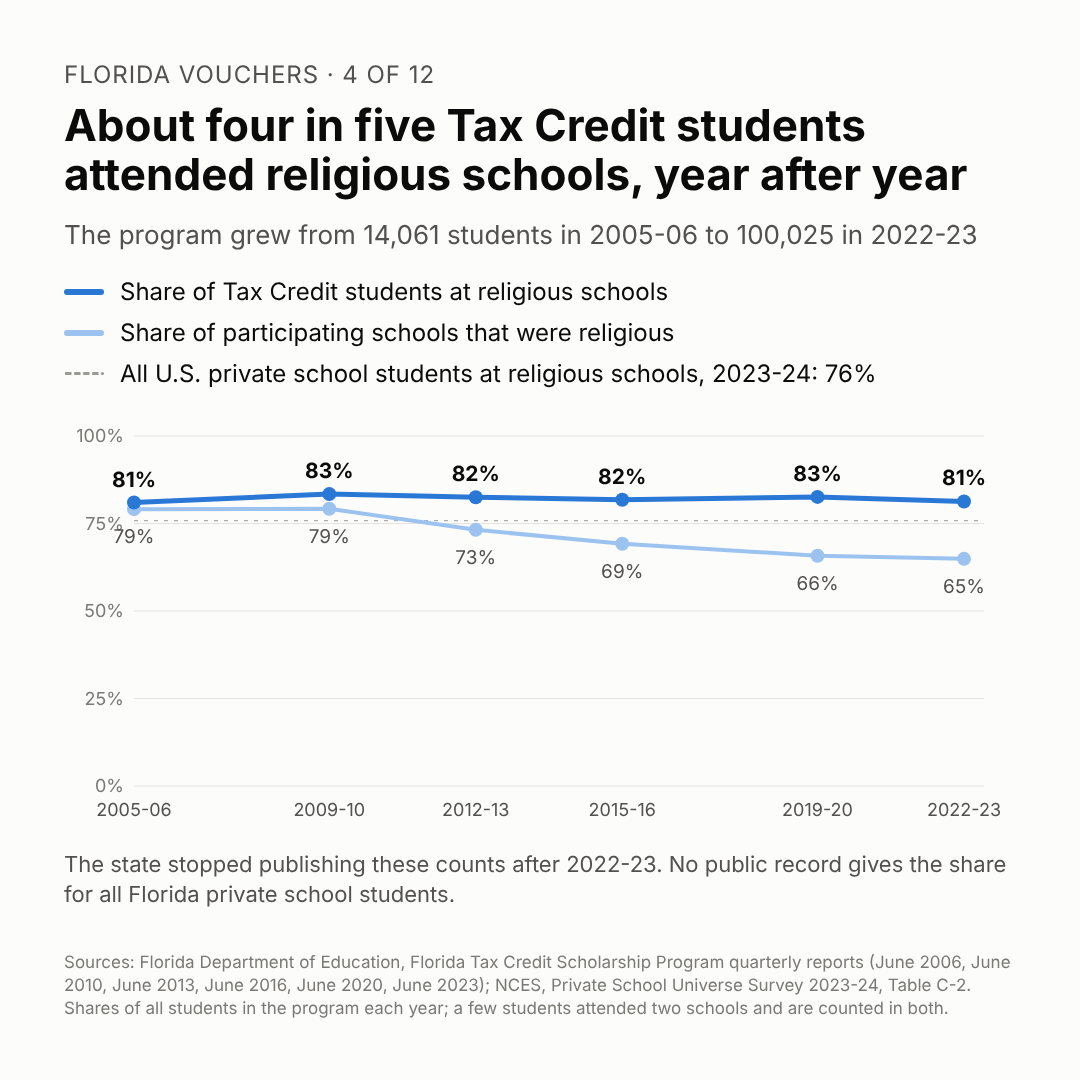
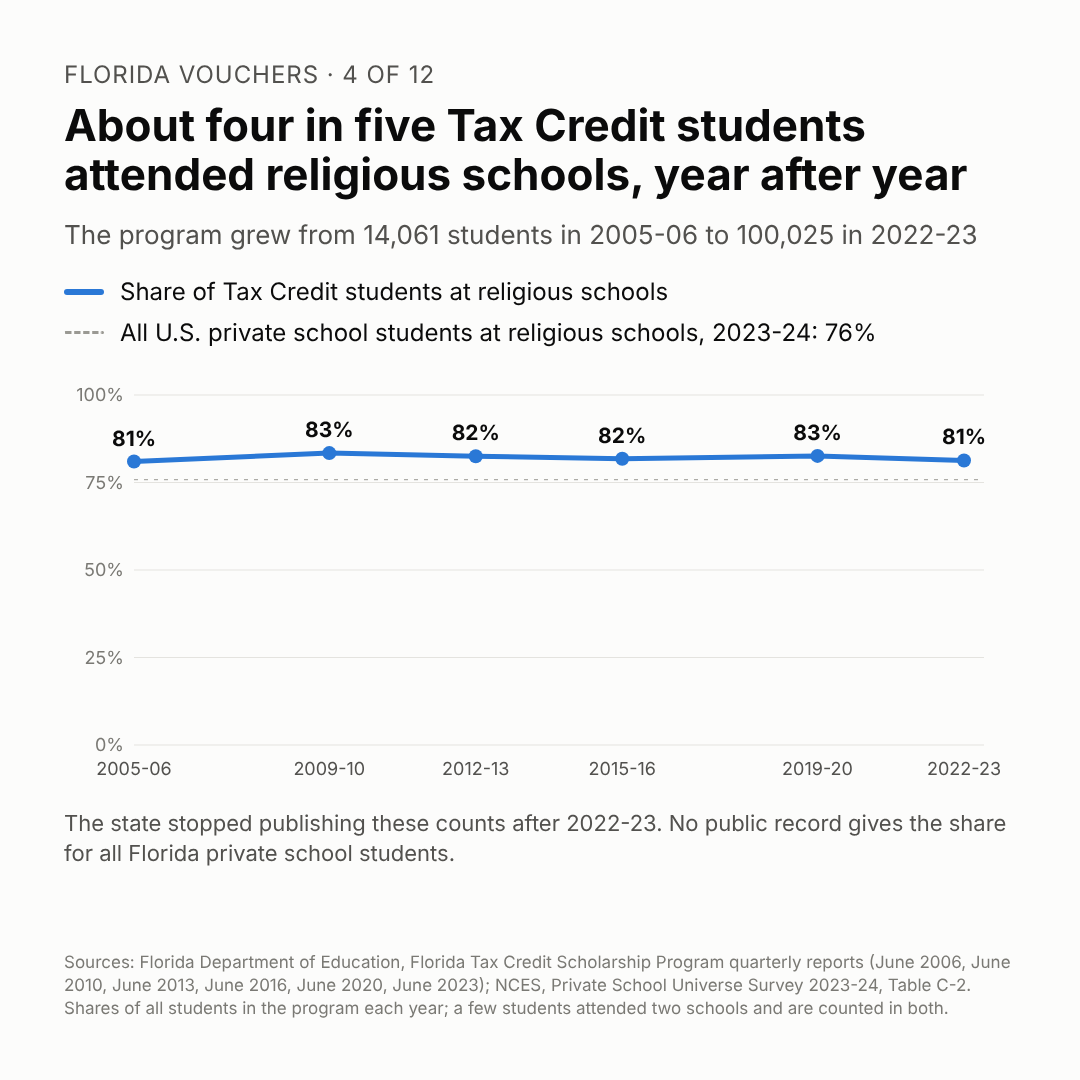
Post 4: cut the secular-schools paragraph; image shows the student share only
Claude-Session: https://claude.ai/code/session_01Tv8dvGSMcMCRhxNzj4GXHG

Changed region(s): [[0.0611, 0.275, 0.9167, 0.5806], [0.0611, 0.6417, 0.9472, 0.8556]]

diff --git a/series/florida-vouchers/04-religious-schools/post.md b/series/florida-vouchers/04-religious-schools/post.md
@@ -37,8 +37,6 @@ In 2020 and 2022, the U.S. Supreme Court ruled on clauses like Florida's. In 202
 
 Through all of this, the share of Tax Credit students at religious schools barely moved. It was 83 percent in 2009-10, 82 percent in 2015-16 and 81 percent in 2022-23, according to the Department of Education.
 
-The schools changed more than the students did. As more secular schools joined, the share of participating schools that were religious fell from 79 percent in 2005-06 to 65 percent in 2022-23. That year, secular schools made up 35 percent of the 2,083 participating schools but enrolled 19 percent of the Tax Credit students. Religious schools enrolled about 61 scholarship students each on average; secular schools, about 26.
-
 The department has not published these counts since 2022-23. Step Up For Students, the nonprofit that runs most of Florida's scholarships, says on its website that 82 percent of its students on the general scholarships attend a religious school. Catholic schools enroll the largest number, according to a 2022 Step Up analysis. Nationally, 76 percent of all private school students, with or without a voucher, attend religious schools, according to 2023-24 federal data. No public record gives that share for Florida, so it is not possible to say whether scholarship students are more likely than other private school students to attend a religious school.
 
 Supporters see parents choosing the schools they trust, most of them religious, and a U.S. Constitution that does not let the state exclude them. Critics see public money paying for religious education, which they say Florida's Constitution was written to prevent.
@@ -87,8 +85,6 @@ Sources for this post:
 | 2020: Montana's courts could not use the no-aid clause to shut religious schools out of a tax credit scholarship program | Espinoza (June 30, 2020, 5-4, Roberts, C.J.), syllabus: the Montana Supreme Court struck down the program under the no-aid provision; held "The application of the no-aid provision discriminated against religious schools and the families whose children attend or hope to attend them in violation of the Free Exercise Clause of the Federal Constitution" |
 | 2022: struck down Maine's rule keeping tuition aid from religious schools; Roberts and Sotomayor quotes | Carson v. Makin (June 21, 2022, 6-3), majority (Roberts, C.J.), slip op. p. 15: "A State need not subsidize private education. But once a State decides to do so, it cannot disqualify some private schools solely because they are religious." (The line first appeared in Espinoza.) Sotomayor, J., dissenting, p. 1: "This Court continues to dismantle the wall of separation between church and state that the Framers fought to build." Verbatim |
 | 83% (2009-10), 82% (2015-16), 81% (2022-23) | DOE quarterly reports: June 2010: 24,134 of 28,927 (83.4%); June 2016: 65,811 of 80,473 (81.8%); June 2023: 82,291 of 101,242 (81.3%). Student totals are duplicated counts (students at two schools counted in both) |
-| 2022-23: secular schools 35% of 2,083 participating schools, 19% of students | DOE June 2023, p. 5: Non-Religious 732 schools (35.1%), Religious 1,351 (64.9%), total 2,083; students Non-Religious 18,951 (18.7%), Religious 82,291 (81.3%) |
-| Share of religious schools fell from 79% (2005-06) to 65% (2022-23); about 61 vs 26 scholarship students per school | DOE June 2006: 708 of 895 (79.1%); June 2023: 1,351 of 2,083 (64.9%). Averages: 82,291 / 1,351 = 60.9; 18,951 / 732 = 25.9 (duplicated student counts) |
 | The department has not published these counts since 2022-23 | DOE FTC quarterly reports page lists reports through June 2023 only (checked 26 Oct 2026). DOE annual private school reports have no religious breakdown (2012-13 and 2024-25 checked) |
 | Step Up: 82 percent of its general-scholarship students at religious schools | Step Up research page (undated): "61 percent of private schools identified as religious, though 82 percent of all students attend a religious school." The page is about its income-based (now general) scholarships. Administrator's own figure; schools self-report |
 | Catholic schools enroll the largest number (2022) | Step Up, Nov. 16, 2022: "Catholics comprise the largest religious group with 34,912 students and 204 schools" |
@@ -107,6 +103,7 @@ Sources for this post:
 ## Notes: details kept out of the main text
 
 - **Full Tax Credit series (DOE quarterly reports).** Students at religious schools: 81.0% (2005-06), 83.4% (2009-10), 82.5% (2012-13), 81.8% (2015-16), 82.6% (2019-20), 81.3% (2022-23). Schools that were religious: 79.1%, 79.2%, 73.2%, 69.2%, 65.8%, 64.9%. Participating schools: 895, 1,033, 1,338, 1,602, 1,870, 2,083.
+- **Secular schools (cut from the post in the 2 Nov edit).** More secular schools joined over time: religious schools fell from 79.1 percent of participating schools in 2005-06 (708 of 895) to 64.9 percent in 2022-23 (1,351 of 2,083), while the student share stayed near 81 percent. In 2022-23 secular schools were 35.1 percent of schools (732) but enrolled 18.7 percent of students (18,951). Average scholarship students per school: religious 82,291 / 1,351 = 60.9; secular 18,951 / 732 = 25.9 (duplicated counts). Source: DOE quarterly reports, June 2006 p. 4 and June 2023 p. 5. Useful if a commenter says the program mostly created new religious schools.
 - **Disability scholarship.** Step Up's 2022 analysis says more than 22,000 of 37,603 private-school students on the disability scholarship (about 59 percent) attended religious schools. Not used because the disability scholarship's private-school count is not otherwise published (see post 3).
 - **By denomination (Step Up, 2021-22 school report, income-based students in religious schools).** Non-denominational 36.4%, Catholic 20.1%, Baptist 17.6%, Assemblies of God 5.0%, Islamic 3.2%. Administrator's data.
 - **2012 amendment voices (news, not used).** Michael Sheedy of the Florida Conference of Catholic Bishops: "Discrimination against some harms us all." The League of Women Voters and teachers unions opposed it. (National Catholic Register.) The Senate passed the resolution 26-10 and the House 81-35 (Senate bill summary).
@@ -119,6 +116,10 @@ Sources for this post:
 ---
 
 ## Editor's notes
+
+**Secular-schools paragraph cut (2 Nov, RJ: "confusing and I am not sure it adds to the topic"):**
+- Cut the paragraph beginning "The schools changed more than the students did." It was about which schools take part, not which schools the students attend, and its four numbers were hard to follow. The figures and their fact-check rows moved to the notes.
+- The image no longer shows the share of participating schools that were religious, so it matches the text: one line for students, and the national 76 percent for context.
 
 **Pre-publication check (2 Nov, RJ: is it ready for publication?):**
 - The three flagged items are now confirmed in primary records. The 2012 vote share is 44.5 percent (Division of Elections), so the post now says "44.5 percent, according to the Florida Division of Elections" instead of "about 44 percent, according to news reports." The 2017 denial is confirmed by the Supreme Court's order (4-1; Justice Lewis would have heard argument). The 2016 standing holding is confirmed by the opinion's affirmance and a later court's description of it.
